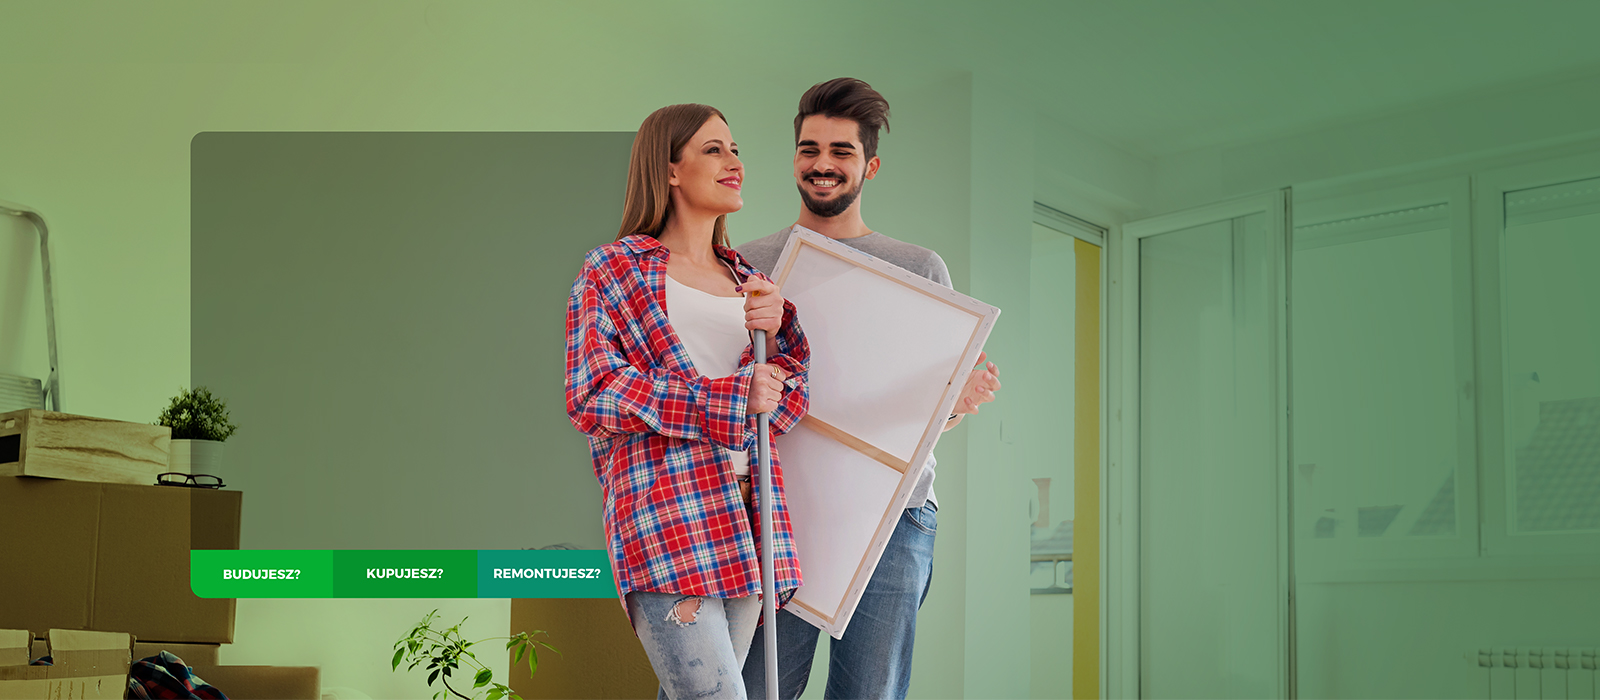
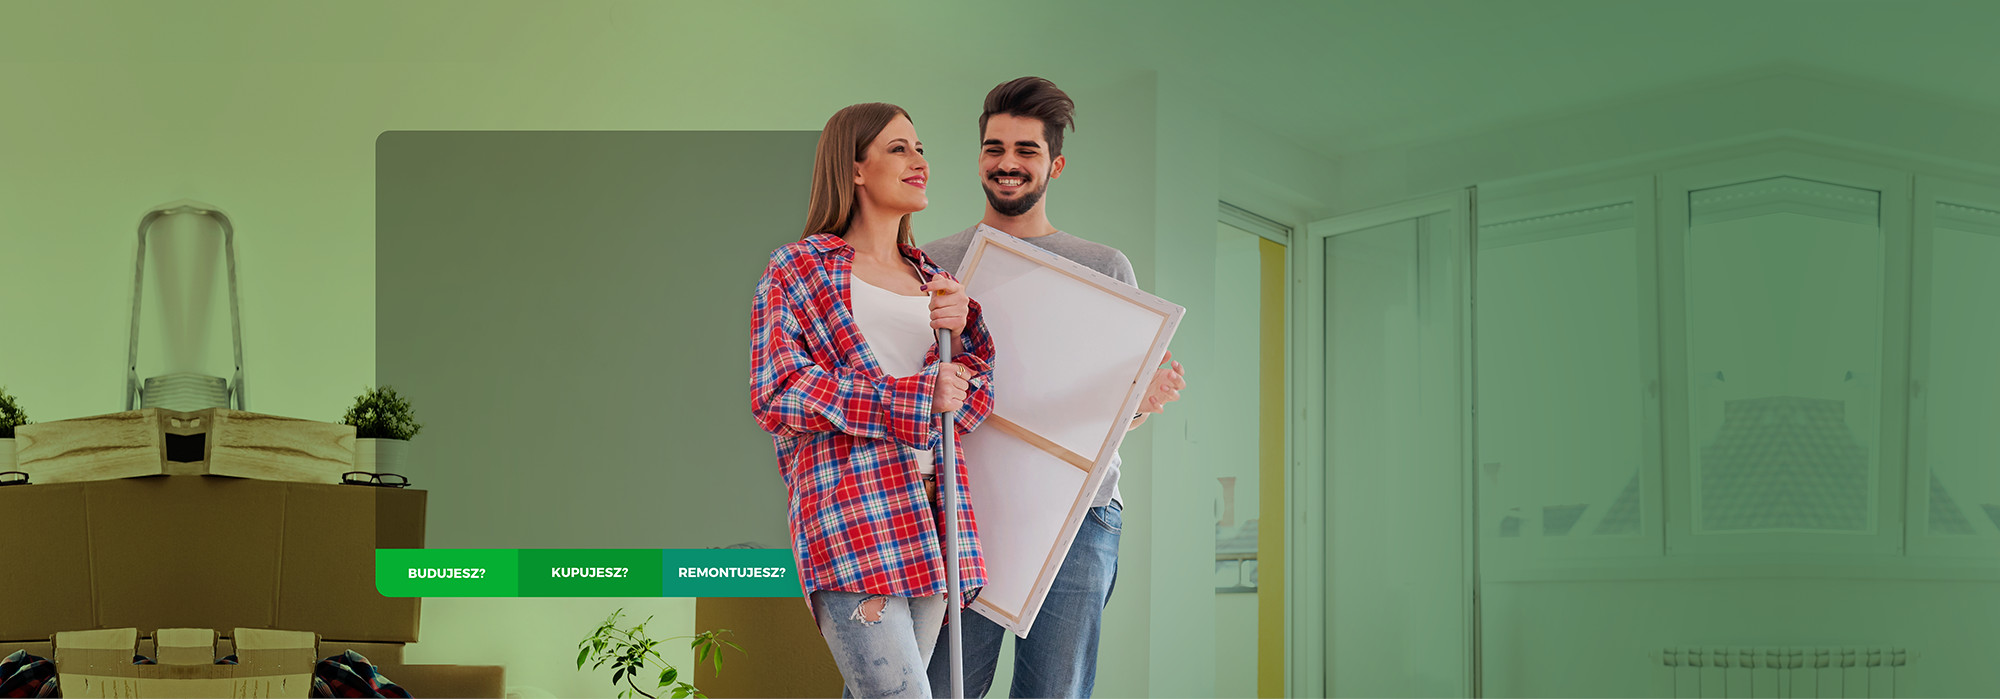
correct name of img header

diff --git a/src/app/header/header.component.scss b/src/app/header/header.component.scss
@@ -3,7 +3,7 @@
   overflow: hidden;
   width: 100vw;
   height: 100%;
-  background-image: url('/assets/img/header/test3.jpg');
+  background-image: url('/assets/img/header/header_img_small.jpg');
   background-repeat: no-repeat;
   background-position: 36% -4%;
 }
@@ -23,7 +23,7 @@
 @media (min-width: 992px) {
 
   .header {
-    background-image: url('/assets/img/header/test.jpg');
+    background-image: url('/assets/img/header/header_img.jpg');
     background-position: 35% 0%;
    }
   }
